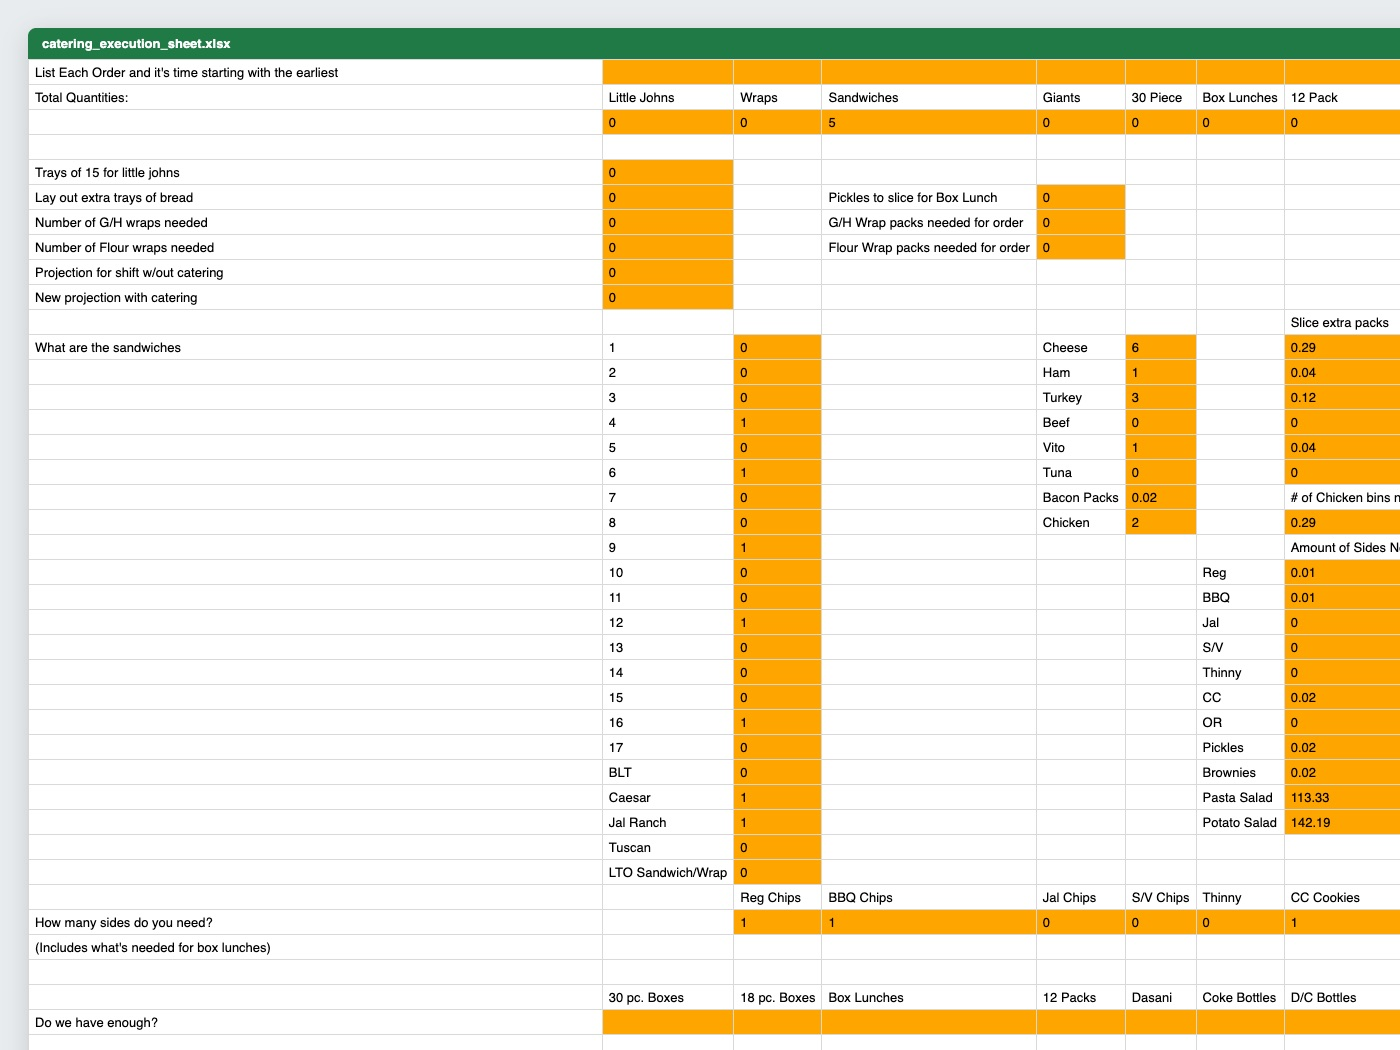
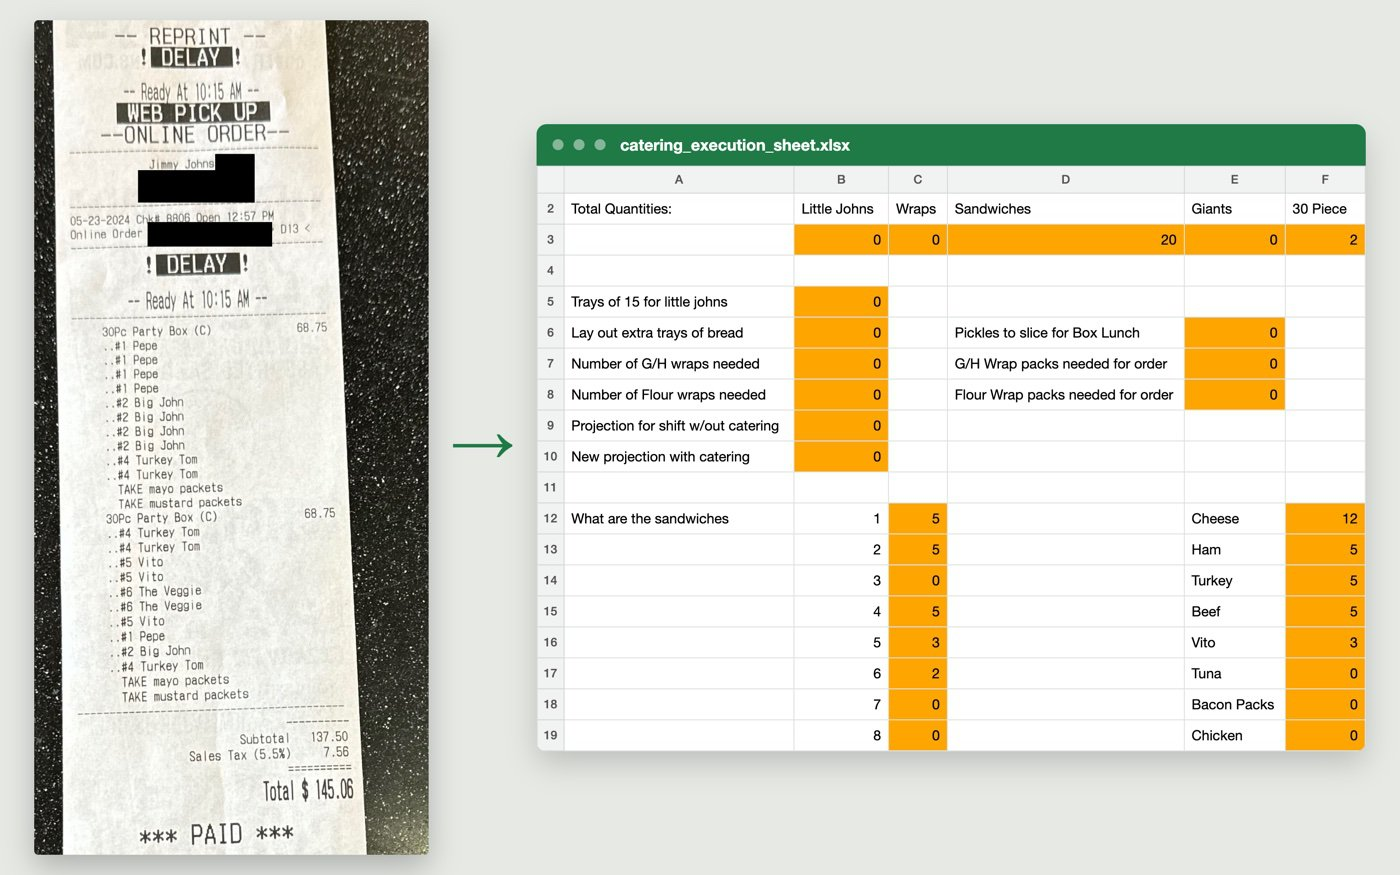
Faster on phones, real project images, Training Journal card
- Fonts load without blocking first paint; project images served as WebP
  at 700px and 1400px (scripts/optimize_images.py)
- Goal replay draws the pitch once and reuses it each frame
- New World Cup capture (Fernandez vs Messi), three-panel sports analytics
  image, and a real catering receipt (personal details blacked out) beside
  the Excel prep sheet the tool generated from it
- StudyBadger moved to second; run tracker becomes Training Journal

diff --git a/src/data/projects.js b/src/data/projects.js
@@ -8,21 +8,11 @@ const projects = [
         description:
             "An R Shiny app that groups passes by where they start, how far they go and which direction, then draws them so you can compare players side by side.",
         image: "images/world-cup.jpg",
-        imageAlt: "Lionel Messi's World Cup passes drawn as arrows on a pitch, colored by cluster",
+        imageAlt: "The World Cup passing app comparing Enzo Fernández and Lionel Messi: every pass from the tournament drawn as arrows on two pitches, colored by cluster, under totals for passes, completion and progressive passes",
         links: {
             live: "https://bjrodriguez.shinyapps.io/world_cup22_passes/",
             code: "https://github.com/bjrodrigu/world-cup-22-passing-viz",
         },
-    },
-    {
-        title: "Catering execution generator",
-        tech: "Python, Flask, Google Cloud Vision, React",
-        headline: "83% less time on prep reports.",
-        description:
-            "A sandwich shop's staff tallied every catering order by hand. I built a tool that reads the order receipts (PDF text first, OCR when that fails) and prints the prep sheet, slicing totals included.",
-        image: "images/catering.jpg",
-        imageAlt: "Prep sheet generated from a sample receipt, listing quantities to prepare",
-        links: { code: "https://github.com/bjrodrigu/catering-execution-generator" },
     },
     {
         title: "StudyBadger",
@@ -33,6 +23,16 @@ const projects = [
         image: "images/campus-review.jpg",
         imageAlt: "StudyBadger's campus map, where each building's pin shows its average rating, next to a list of study spots with ratings, distances and tags; College Library is highlighted in both",
         links: { code: "https://github.com/bjrodrigu/Project_08" },
+    },
+    {
+        title: "Catering execution generator",
+        tech: "Python, Flask, Google Cloud Vision, React",
+        headline: "83% less time on prep reports.",
+        description:
+            "A sandwich shop's staff tallied every catering order by hand. I built a tool that reads the order receipts (PDF text first, OCR when that fails) and prints the prep sheet, slicing totals included.",
+        image: "images/catering.jpg",
+        imageAlt: "A real catering receipt for two 30-piece party boxes, with customer and store details blacked out, next to the Excel prep sheet the tool generated from it: 20 sandwiches, counts per sandwich, and how much cheese, ham, turkey, beef and Vito meat to slice",
+        links: { code: "https://github.com/bjrodrigu/catering-execution-generator" },
     },
     {
         title: "Clutter Clear website",
@@ -52,15 +52,17 @@ const projects = [
         description:
             "Three team projects: how Bayer Leverkusen's title side created chances from corners, how likely upsets are in college football's biggest rivalries, and which movements help NFL receivers get open, using Big Data Bowl tracking data.",
         image: "images/sports-analytics.jpg",
-        imageAlt: "Bar chart of predicted win probabilities for five college football rivalries",
+        imageAlt: "Three charts, one per project: a heatmap of where players stood when Bayer Leverkusen took shots, predicted win probabilities for five college football rivalries, and average receiver separation by NFL route",
         links: { code: "https://github.com/bjrodrigu/sports-analytics" },
     },
     {
-        title: "Run tracker",
-        tech: "Python, Java, Spring Boot, MongoDB Atlas",
-        headline: "My Garmin runs, cleaned up and searchable.",
+        title: "Training Journal",
+        tech: "React, TypeScript, Java, Spring Boot, MongoDB, Python, Docker",
+        headline: "A training log for running and lifting.",
         description:
-            "Pulls runs from Garmin Connect, cleans up distance, time and pace, and serves them from a small Spring Boot API with full-text search. An early prototype I'd like to turn into a training log.",
+            "Each run or lift is a journal entry with notes. The dashboard shows weekly mileage, pace trends, best efforts and strength progression. Runs come in from Garmin Connect, and anyone can try it with sample data and one docker compose up.",
+        image: "images/training-journal.jpg",
+        imageAlt: "Training dashboard with eight weeks of daily miles in a grid, strength days marked in green, a half marathon on the last Sunday of September, and charts of weekly mileage and average pace",
         links: { code: "https://github.com/bjrodrigu/fitness-tracker" },
     },
 ];

diff --git a/src/components/Projects/ProjectItem.jsx b/src/components/Projects/ProjectItem.jsx
@@ -2,16 +2,28 @@ import React from "react";
 
 function ProjectItem({ project }) {
   const { title, headline, tech, description, image, imageAlt, links = {}, note } = project;
+  const base = image && `${process.env.PUBLIC_URL}/${image.replace(/\.jpg$/, "")}`;
 
   return (
     <article className="project">
       <div className="project-media">
         {image ? (
-          <img
-            src={`${process.env.PUBLIC_URL}/${image}`}
-            alt={imageAlt || `Screenshot of ${title}`}
-            loading="lazy"
-          />
+          // WebP at two widths (scripts/optimize_images.py), JPG as the fallback.
+          <picture>
+            <source
+              type="image/webp"
+              srcSet={`${base}-700.webp 700w, ${base}-1400.webp 1400w`}
+              sizes="(min-width: 900px) 560px, calc(100vw - 32px)"
+            />
+            <img
+              src={`${process.env.PUBLIC_URL}/${image}`}
+              alt={imageAlt || `Screenshot of ${title}`}
+              width="1400"
+              height="875"
+              loading="lazy"
+              decoding="async"
+            />
+          </picture>
         ) : (
           <div className="project-media-empty" aria-hidden="true">
             <span>{title}</span>

diff --git a/public/index.html b/public/index.html
@@ -28,10 +28,10 @@
     <link rel="manifest" href="%PUBLIC_URL%/manifest.json" />
     <link rel="preconnect" href="https://fonts.googleapis.com" />
     <link rel="preconnect" href="https://fonts.gstatic.com" crossorigin />
-    <link
-      href="https://fonts.googleapis.com/css2?family=Barlow+Condensed:wght@500;600;700&family=Barlow:ital,wght@0,400;0,500;0,600;1,400&family=Silkscreen&display=swap"
-      rel="stylesheet"
-    />
+    <!-- Fonts load without blocking the first paint; text shows in a fallback first. -->
+    <link rel="preload" as="style" href="https://fonts.googleapis.com/css2?family=Barlow+Condensed:wght@500;600;700&family=Barlow:ital,wght@0,400;0,500;0,600;1,400&family=Silkscreen&display=swap" />
+    <link rel="stylesheet" href="https://fonts.googleapis.com/css2?family=Barlow+Condensed:wght@500;600;700&family=Barlow:ital,wght@0,400;0,500;0,600;1,400&family=Silkscreen&display=swap" media="print" onload="this.media='all'" />
+    <noscript><link rel="stylesheet" href="https://fonts.googleapis.com/css2?family=Barlow+Condensed:wght@500;600;700&family=Barlow:ital,wght@0,400;0,500;0,600;1,400&family=Silkscreen&display=swap" /></noscript>
     <title>Brandon Rodriguez</title>
   </head>
   <body>

diff --git a/src/components/Hero/PixelPitch.jsx b/src/components/Hero/PixelPitch.jsx
@@ -85,6 +85,21 @@ function drawPitch(ctx, goalFlash) {
   });
 }
 
+// The pitch never changes during a replay, so draw it once (plain and with
+// the goal flashing) and copy it each frame instead of redrawing ~10,000 pixels.
+const pitchLayers = {};
+function pitchLayer(goalFlash) {
+  const key = goalFlash ? "flash" : "plain";
+  if (!pitchLayers[key]) {
+    const layer = document.createElement("canvas");
+    layer.width = W;
+    layer.height = H;
+    drawPitch(layer.getContext("2d"), goalFlash);
+    pitchLayers[key] = layer;
+  }
+  return pitchLayers[key];
+}
+
 function drawPlayer(ctx, kit, x, y) {
   // 3 × 4 sprite in the scoring team's kit, anchored at the feet.
   const sprite = [
@@ -132,7 +147,7 @@ function render(ctx, plan, elapsed) {
   const { events, kit, durations, starts, total } = plan;
   const done = elapsed >= total;
   const idx = done ? events.length : starts.findIndex((s, i) => elapsed < starts[i + 1]);
-  drawPitch(ctx, done);
+  ctx.drawImage(pitchLayer(done), 0, 0);
   let ball = events[0].start;
   events.forEach((ev, i) => {
     if (i < idx) {

diff --git a/src/components/Projects/Projects.css b/src/components/Projects/Projects.css
@@ -29,7 +29,13 @@
   );
 }
 
+.project-media picture {
+  display: block;
+}
+
 .project-media img {
+  display: block;
+  height: auto;
   width: 100%;
   aspect-ratio: 16 / 10;
   object-fit: cover;

diff --git a/scripts/optimize_images.py b/scripts/optimize_images.py
@@ -1,0 +1,22 @@
+"""Make WebP copies of the project images at two widths.
+
+Run from the repo root after adding or changing a JPG in public/images:
+    python3 scripts/optimize_images.py
+Each images/<name>.jpg gets images/<name>-700.webp and images/<name>-1400.webp.
+The JPG stays as the fallback for browsers without WebP.
+"""
+from pathlib import Path
+
+from PIL import Image
+
+WIDTHS = (700, 1400)
+folder = Path(__file__).resolve().parent.parent / "public" / "images"
+
+for jpg in sorted(folder.glob("*.jpg")):
+    with Image.open(jpg) as im:
+        im = im.convert("RGB")
+        for w in WIDTHS:
+            h = round(im.height * w / im.width)
+            out = folder / f"{jpg.stem}-{w}.webp"
+            im.resize((w, h), Image.LANCZOS).save(out, "WEBP", quality=80, method=6)
+            print(f"{out.name}: {out.stat().st_size // 1024} KB")
